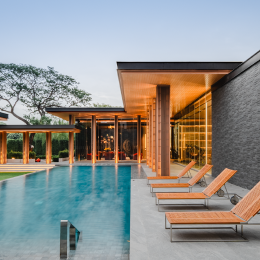
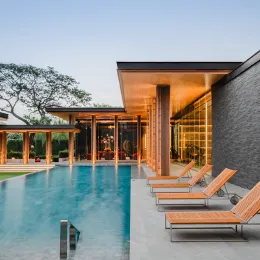
webp

diff --git a/page/home/component/experience/component.js b/page/home/component/experience/component.js
@@ -76,8 +76,8 @@ const ExperienceComponent = defineComponent({
                     en: `A prime location that presents lucrative potential alongside exceptional amenities`
                 },
                 image: {
-                    l: "/assets/image/residential/card/location.png",
-                    s: "/assets/image/residential/card/location-m.png"
+                    l: "/assets/image/residential/card/location.webp",
+                    s: "/assets/image/residential/card/location-m.webp"
                 }
             }, {
                 title: {
@@ -102,8 +102,8 @@ const ExperienceComponent = defineComponent({
                     en: "Meticulous attention to every detail, selecting only the finest quality materials"
                 },
                 image: {
-                    l: "/assets/image/residential/card/Quality.png",
-                    s: "/assets/image/residential/card/quality-m.png"
+                    l: "/assets/image/residential/card/Quality.webp",
+                    s: "/assets/image/residential/card/quality-m.webp"
                 }
             }, {
                 title: {
@@ -115,8 +115,8 @@ const ExperienceComponent = defineComponent({
                     en: "A seamless living experience enhanced by exclusive service support"
                 },
                 image: {
-                    l: "/assets/image/residential/card/project-stories-img-06-3.png",
-                    s: "/assets/image/residential/card/project-stories-img-05.jpg"
+                    l: "/assets/image/residential/card/project-stories-img-06-3.webp",
+                    s: "/assets/image/residential/card/project-stories-img-05.webp"
                 }
             }, {
                 title: {
@@ -128,8 +128,8 @@ const ExperienceComponent = defineComponent({
                     en: "Embrace eco-friendly and sustainability integrated seamlessly."
                 },
                 image: {
-                    l: "/assets/image/residential/card/service.png",
-                    s: "/assets/image/residential/card/service-m.png"
+                    l: "/assets/image/residential/card/service.webp",
+                    s: "/assets/image/residential/card/service-m.webp"
                 }
             },]
         };
